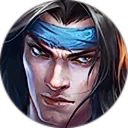
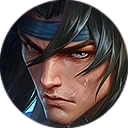
New portraits, Teams redesign, stage-aware Heimer

diff --git a/warr-heimer.js b/warr-heimer.js
@@ -247,25 +247,38 @@
     if (!teams.length) teams = pageTeams().filter(t => !locked(t));                    // whatever's on screen
     teams = teams.slice(0, 3);
     const heroes = WIntel.findHeroes(q, HD.heroes);
+    // Stage the question is about: playoffs vs regular season (else: whole season, split shown).
+    const stageQ = /\b(play-?offs?|knock-?outs?|brackets?|upper bracket|lower bracket|elimination|grand ?finals?|finals?|semi-?finals?|semis|quarter-?finals?)\b/i.test(q) ? 'Playoffs'
+      : /\b(regular season|reg(?:ular)?\.? season|group stage|groups|swiss|week \d+|weeks)\b/i.test(q) ? 'Regular Season' : '';
     const parts = [], used = [];
     const today = new Date().toISOString().slice(0, 10);
     const u = user();
     parts.push(`TODAY: ${today}. USER: ${(u && (u.user_metadata?.name || u.email || '').split('@')[0]) || 'coach'}. USER'S TEAM: ${HD.myTeam || 'not set'}.`);
     const scopes = {};
+    const splitTxt = sp => Object.entries(sp).filter(([k]) => k !== 'Scrims').map(([k, x]) => `${k}: games ${x.gw}-${x.gl}, series ${x.sw}-${x.sl}${x.sd ? ` (${x.sd} unfinished/drawn)` : ''}`).join(' | ');
     teams.forEach(t => {
       const sc = scopeOf(t); scopes[t] = sc;
       const R = WIntel.ratings(sc.pool);
-      const I = WIntel.team(sc.pool, t, R);
+      // Profile on the stage asked about (if the team has games there), else the season.
+      const stPool = stageQ ? sc.pool.filter(m => WIntel.stageGroup(m) === stageQ) : sc.pool;
+      const stN = stPool.filter(m => involves(m, t)).length;
+      const usePool = stageQ && stN >= 2 ? stPool : sc.pool;
+      const scopeLbl = `${sc.label}${stageQ && stN >= 2 ? ' · ' + stageQ + ' only' : ' · all stages'}`;
+      const I = WIntel.team(usePool, t, R);
       const lv = WIntel.levers(I);
-      used.push(`${t} (${sc.label}, ${I.n}g)`);
+      used.push(`${t} (${scopeLbl}, ${I.n}g)`);
       const lanes = WIntel.LANES.filter(l => I.lanes[l]).map(l => `${l}: ${I.lanes[l].main || '?'} (${I.lanes[l].top.map(x => x.hero).join(', ')})`).join(' | ');
       const scr = HD.usable.filter(m => isScrim(m) && involves(m, t));
+      const series = WIntel.series(sc.pool, t).slice(0, 10).map(x => `${(x.date || '').slice(0, 10)} ${x.stageRaw || x.stage}${x.week ? ' · ' + x.week : ''}${x.format ? ' · ' + x.format : ''}: ${x.result === 'W' ? 'WON' : x.result === 'L' ? 'LOST' : 'unfinished/drawn'} ${x.w}-${x.l} vs ${x.opp}`);
       parts.push([
-        `=== TEAM: ${t} — ${sc.label}, ${I.n} official games ===`,
+        `=== TEAM: ${t} — ${scopeLbl}, ${I.n} official games ===`,
+        `Record by stage (${sc.label}): ${splitTxt(WIntel.stageSplit(sc.pool, t)) || 'n/a'}`,
+        stageQ && stN < 2 ? `NOTE: only ${stN} ${stageQ.toLowerCase()} game(s) for ${t} in ${sc.label} — the profile below uses the whole season.` : '',
+        series.length ? `Series results (newest first):\n${series.join('\n')}` : '',
         WIntel.promptBlock(I, lv),
         lanes ? `Players by lane (main player, most-played heroes): ${lanes}` : '',
         WIntel.edges(I).length ? `Strengths: ${WIntel.edges(I).join('; ')}` : '',
-        `Recent official games (newest first):\n${WIntel.recentGames(sc.pool, t, 8).join('\n') || 'none'}`,
+        `Recent official games (newest first, with stage):\n${WIntel.recentGames(usePool, t, 8).join('\n') || 'none'}`,
         scr.length ? `USER'S OWN SCRIMS involving ${t} (private to the user, ${scr.length} games):\n${WIntel.recentGames(scr, t, 6).join('\n')}` : '',
       ].filter(Boolean).join('\n'));
     });
@@ -278,7 +291,7 @@
       parts.push([
         `=== MATCHUP: ${a} vs ${b} ===`,
         same ? `Opponent-adjusted model (${sc.label}): ${a} ${pct(R.pGame(a, b))}% per game, BO3 ${pct(R.pSeries(a, b, 3))}%, BO5 ${pct(R.pSeries(a, b, 5))}%. Strength rank: ${a} #${R.rank(a)}, ${b} #${R.rank(b)} of ${R.teams}.` : `Different leagues/seasons — no shared model.`,
-        `Head-to-head (official, all seasons): ${a} ${aw}-${h2h.length - aw} in ${h2h.length} games.`,
+        `Head-to-head (official, all seasons): ${a} ${aw}-${h2h.length - aw} in ${h2h.length} games; series: ${(() => { const ss = WIntel.series(h2h, a); return `${ss.filter(x => x.result === 'W').length}-${ss.filter(x => x.result === 'L').length}` + (ss.length ? ` (${ss.slice(0, 5).map(x => `${(x.date || '').slice(0, 10)} ${x.stageRaw || x.stage} ${x.w}-${x.l}`).join('; ')})` : ''); })()}.`,
         h2h.length ? `Last H2H games:\n${WIntel.recentGames(h2h, a, 5).join('\n')}` : '',
       ].filter(Boolean).join('\n'));
     }
@@ -289,9 +302,19 @@
       const sc = scopeOf('', lg);
       const R = WIntel.ratings(sc.pool);
       const rec = {}; sc.pool.forEach(m => [['blue', m.blueTeam], ['red', m.redTeam]].forEach(([s, t]) => { const x = rec[t] || (rec[t] = { w: 0, l: 0 }); if (m.winner === s) x.w++; else x.l++; }));
-      const stand = Object.keys(rec).sort((x, y) => (R.r[y] || 0) - (R.r[x] || 0)).slice(0, 12).map((t, i) => `${i + 1}. ${t} ${rec[t].w}-${rec[t].l}`).join(' | ');
-      const meta = WIntel.meta(sc.pool).slice(0, 16).map(m => `${m.hero} ${pct(m.pres)}% pres (${m.picks}p/${m.bans}b${m.picks >= 4 ? `, ${pct(m.adjWR)}% WR` : ''})`).join(', ');
-      parts.push(`=== LEAGUE: ${sc.label} (${sc.pool.length} games) ===\nStandings by opponent-adjusted strength: ${stand}\nMeta (presence = picked or banned per game): ${meta}`);
+      const strength = Object.keys(rec).sort((x, y) => (R.r[y] || 0) - (R.r[x] || 0)).slice(0, 12).map((t, i) => `${i + 1}. ${t}`).join(' | ');
+      const table = WIntel.standings(sc.pool).map((r, i) => `${i + 1}. ${r.team} ${r.sw}-${r.sl} (games ${r.gw}-${r.gl}, ${r.gw - r.gl >= 0 ? '+' : ''}${r.gw - r.gl})`).join(' | ');
+      const po = WIntel.playoffSeries(sc.pool).map(x => `${(x.date || '').slice(0, 10)} ${x.stage}${x.week ? ' · ' + x.week : ''}${x.format ? ' (' + x.format + ')' : ''}: ${x.a} ${x.aw}-${x.bw} ${x.b}`);
+      const latest = sc.pool.slice().sort(byDateDesc)[0];
+      const meta = WIntel.meta(stageQ ? sc.pool.filter(m => WIntel.stageGroup(m) === stageQ) : sc.pool).slice(0, 16).map(m => `${m.hero} ${pct(m.pres)}% pres (${m.picks}p/${m.bans}b${m.picks >= 4 ? `, ${pct(m.adjWR)}% WR` : ''})`).join(', ');
+      parts.push([
+        `=== LEAGUE: ${sc.label} (${sc.pool.length} games) ===`,
+        latest ? `Latest stage played: ${latest.stage || WIntel.stageGroup(latest)}${latest.week ? ' · ' + latest.week : ''} (${(latest.date || '').slice(0, 10)}).` : '',
+        table ? `REGULAR SEASON STANDINGS (series W-L, then game difference): ${table}` : 'No regular-season games logged.',
+        po.length ? `PLAYOFF SERIES (oldest first):\n${po.join('\n')}` : 'No playoff games logged yet.',
+        `Opponent-adjusted strength ranking (all stages, NOT the standings): ${strength}`,
+        `Meta${stageQ ? ' (' + stageQ + ' only)' : ''} (presence = picked or banned per game): ${meta}`,
+      ].filter(Boolean).join('\n'));
       if (!teams.length) used.push(`${sc.label} (${sc.pool.length}g)`);
       heroes.forEach(h => {
         const x = WIntel.hero(sc.pool, h);
@@ -312,6 +335,7 @@ RULES
 - Every stat you state must come from the DATA PACK, with its game count (e.g. "Chou 8-0 in 8 games"). Never invent stats, results, players or patch notes.
 - If the data doesn't cover the question, say so in one line, then help from general MLBB knowledge and label it as general knowledge.
 - Under ~5 games is an early signal — say so. Prefer the current season.
+- Stages matter: regular season and playoffs are different contexts. "Standings" = the regular-season table (series record, then game difference) — not the strength ranking. Playoffs are knockout series (BO5/BO7). Always say which stage a number is from, and whether it's a game record or a series record. If asked about playoffs, use playoff data first and note when the sample is small.
 - Privacy: you only see official matches plus the user's own scrims. You cannot see other teams' scrims. If asked, say that plainly.
 - Answer like a sharp coach: the answer first in 1–2 sentences, then the evidence as bullets, then a concrete plan (bans, picks, win condition, timings) when it fits.
 - Keep it tight — about 200 words unless they ask for depth. Markdown: short headings, bullets, **bold** hero/team names. Small tables are fine.

diff --git a/warr-intel.js b/warr-intel.js
@@ -337,8 +337,71 @@
         const d = W.mins(m.duration);
         const obj = m.objectives || {};
         const ft = Array.isArray(obj.turtle) && obj.turtle[0] ? (obj.turtle[0] === s ? 'got 1st turtle' : 'lost 1st turtle') : '';
-        return `${(m.date || '').slice(0, 10)} ${win ? 'WIN' : 'LOSS'} vs ${opp} [${s}${m.league === 'Scrims' ? ', SCRIM' : ''}${d ? ', ' + Math.round(d) + 'm' : ''}${ft ? ', ' + ft : ''}] picks: ${pk} | vs: ${op} | their bans: ${(m[s + 'Bans'] || []).map(nm).join(', ')} | banned vs them: ${(m[o + 'Bans'] || []).map(nm).join(', ')}`;
+        const where = [W.stageGroup(m) === 'Scrims' ? 'SCRIM' : (m.stage || W.stageGroup(m)), m.week, m.seriesFormat ? m.seriesFormat + (m.gameNum ? ' G' + m.gameNum : '') : ''].filter(Boolean).join(' · ');
+        return `${(m.date || '').slice(0, 10)} ${win ? 'WIN' : 'LOSS'} vs ${opp} [${where}${where ? ' · ' : ''}${s}${d ? ', ' + Math.round(d) + 'm' : ''}${ft ? ', ' + ft : ''}] picks: ${pk} | vs: ${op} | their bans: ${(m[s + 'Bans'] || []).map(nm).join(', ')} | banned vs them: ${(m[o + 'Bans'] || []).map(nm).join(', ')}`;
       });
+  };
+
+  // ── Stages & series ───────────────────────────────────────────────────
+  // Scout stores stage ('Regular Season', 'Playoffs', 'Grand Finals', …),
+  // week ('Week 8 Day 1', 'Playoffs Day 2') and series (seriesId, BO3/BO5,
+  // gameNum). Regular season and playoffs are different contexts — standings
+  // are a regular-season series table, playoffs are knockout series.
+  W.stageGroup = function (m) {
+    const st = String((m && m.stage) || '').toLowerCase(), wk = String((m && m.week) || '').toLowerCase();
+    if ((m && m.league) === 'Scrims' || /scrim/.test(st)) return 'Scrims';
+    if (/play-?off|knock|bracket|elimin|final|semi|quarter|upper|lower/.test(st + ' ' + wk)) return 'Playoffs';
+    if (/group|swiss/.test(st)) return 'Group Stage';
+    if (!st || /regular|week|season/.test(st)) return 'Regular Season';
+    return String(m.stage).trim();
+  };
+  W.seriesKey = m => m.seriesId || [m.league, m.season, m.stage, (m.week || m.date), [m.blueTeam, m.redTeam].sort().join('|'), m.seriesFormat || ''].join('|');
+  // Series for one team (newest first): opponent, stage, format, score.
+  W.series = function (matches, team) {
+    const g = {};
+    (matches || []).filter(m => sideOf(m, team) && (m.winner === 'blue' || m.winner === 'red')).forEach(m => {
+      const k = W.seriesKey(m), s = sideOf(m, team);
+      const x = g[k] || (g[k] = { opp: s === 'blue' ? m.redTeam : m.blueTeam, stage: W.stageGroup(m), stageRaw: m.stage || '', week: m.week || '', format: m.seriesFormat || '', date: m.date || '', w: 0, l: 0 });
+      if (m.winner === s) x.w++; else x.l++;
+      if ((m.date || '') > x.date) x.date = m.date;
+    });
+    return Object.values(g).map(x => ({ ...x, result: x.w > x.l ? 'W' : x.w < x.l ? 'L' : 'D' }))
+      .sort((a, b) => (b.date || '').localeCompare(a.date || ''));
+  };
+  // Games and series record per stage for one team.
+  W.stageSplit = function (matches, team) {
+    const out = {};
+    (matches || []).filter(m => sideOf(m, team) && (m.winner === 'blue' || m.winner === 'red')).forEach(m => {
+      const st = W.stageGroup(m), x = out[st] || (out[st] = { gw: 0, gl: 0, sw: 0, sl: 0, sd: 0 });
+      if (m.winner === sideOf(m, team)) x.gw++; else x.gl++;
+    });
+    W.series(matches, team).forEach(sr => { const x = out[sr.stage]; if (!x) return; if (sr.result === 'W') x.sw++; else if (sr.result === 'L') x.sl++; else x.sd++; });
+    return out;
+  };
+  // Regular-season table: series wins, then game difference.
+  W.standings = function (matches) {
+    const reg = (matches || []).filter(m => W.stageGroup(m) === 'Regular Season' && (m.winner === 'blue' || m.winner === 'red'));
+    const t = {};
+    const add = n => t[n] || (t[n] = { team: n, sw: 0, sl: 0, sd: 0, gw: 0, gl: 0 });
+    reg.forEach(m => { add(m.blueTeam); add(m.redTeam); const w = m.winner === 'blue' ? m.blueTeam : m.redTeam, l = m.winner === 'blue' ? m.redTeam : m.blueTeam; t[w].gw++; t[l].gl++; });
+    const seen = new Set();
+    Object.keys(t).forEach(n => W.series(reg, n).forEach(sr => {
+      const k = [n, sr.opp, sr.date, sr.week].join('|'); if (seen.has(k)) return; seen.add(k);
+      if (sr.result === 'W') t[n].sw++; else if (sr.result === 'L') t[n].sl++; else t[n].sd++;
+    }));
+    return Object.values(t).sort((a, b) => (b.sw - a.sw) || ((b.gw - b.gl) - (a.gw - a.gl)) || (a.sl - b.sl));
+  };
+  // All playoff series in a pool, oldest first: "date · stage (BO5): A 3-1 B".
+  W.playoffSeries = function (matches) {
+    const g = {};
+    (matches || []).filter(m => W.stageGroup(m) === 'Playoffs' && (m.winner === 'blue' || m.winner === 'red')).forEach(m => {
+      const k = W.seriesKey(m), a = [m.blueTeam, m.redTeam].sort()[0], b = a === m.blueTeam ? m.redTeam : m.blueTeam;
+      const x = g[k] || (g[k] = { a, b, aw: 0, bw: 0, stage: m.stage || 'Playoffs', week: m.week || '', format: m.seriesFormat || '', date: m.date || '' });
+      const winner = m.winner === 'blue' ? m.blueTeam : m.redTeam;
+      if (winner === a) x.aw++; else x.bw++;
+      if ((m.date || '') > x.date) x.date = m.date;
+    });
+    return Object.values(g).sort((x, y) => (x.date || '').localeCompare(y.date || ''));
   };
 
   // ── One hero in this pool: presence, WR, who plays it, lanes ──────────

diff --git a/warr-lib.js b/warr-lib.js
@@ -1620,7 +1620,7 @@ WDB.uploadSlideBackground = async function(file) {
 // Portraits are cached "immutable" for a year, so re-uploading a file under the
 // SAME name won't refresh on its own. Bump PORTRAIT_VER whenever you replace any
 // portrait image — the ?v= changes the URL and forces every browser to refetch.
-WDB.PORTRAIT_VER = '3';
+WDB.PORTRAIT_VER = '4';   // bumped for the Oct 23 portrait refresh
 WDB.heroPortrait = function(name, variant) {
   variant = WDB.PORTRAIT_VARIANTS.includes(variant) ? variant : 'icon';
   const overrides = WDB._portraitOverrides && WDB._portraitOverrides[name];
